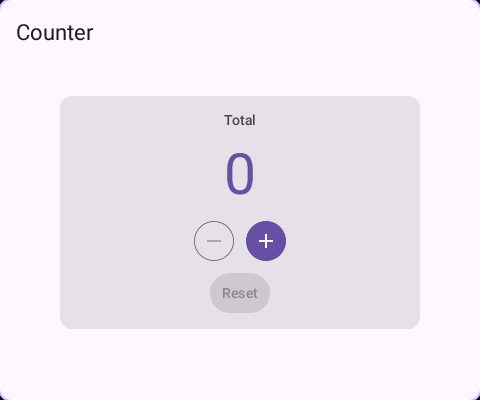
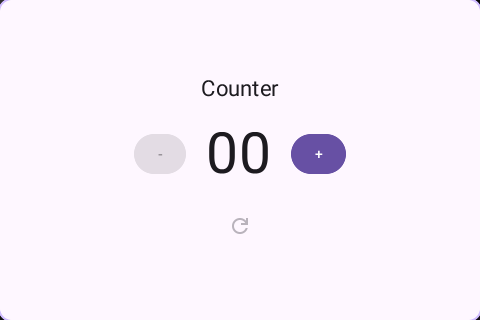
examples: tidy assets and refresh the hello and counter shots
Pictures and clips live under images/ and videos/, paths follow them, hello is the SVG greeting, and counter is the compact version. The README describes hello and shows fresh light/dark screenshots for both.

diff --git a/counter/cmd/main.go b/counter/cmd/main.go
@@ -5,69 +5,46 @@
 package main
 
 import (
-	"fmt"
-	"os"
-	"strconv"
-
 	"github.com/goi-gui/goi/ui"
 )
-
-// counter lives outside Bind on purpose: Bind runs again after every hot
-// reload, so state declared inside it would reset on each save.
-type counter struct {
-	n int
-}
 
 func main() {
 	app, err := ui.NewApp()
 	if err != nil {
-		fmt.Fprintln(os.Stderr, err)
-		os.Exit(1)
+		panic(err)
 	}
+
 	win, err := app.LoadWindow("ui/Main.goi")
 	if err != nil {
-		fmt.Fprintln(os.Stderr, err)
-		os.Exit(1)
+		panic(err)
 	}
 
-	c := &counter{}
+	// store count variable outside of the binding,
+	// if you don't want reset after hot reload
+	count := 0
+
 	err = win.Bind(func(w *ui.Window) error {
-		label := w.MustByID[*ui.Text]("label")
-		inc := w.MustByID[*ui.IconButton]("inc")
-		dec := w.MustByID[*ui.IconButton]("dec")
-		reset := w.MustByID[*ui.Button]("reset")
-
-		// render writes the count and keeps the minus disabled at the floor,
-		// so the control never offers an action the state refuses.
-		render := func() {
-			label.Text.Set(strconv.Itoa(c.n))
-			dec.Disabled.Set(c.n <= 0)
-			reset.Disabled.Set(c.n == 0)
-		}
-		render()
-
-		inc.OnClick(func(ui.ClickEvent) {
-			c.n++
-			render()
+		ui.SetData(w, "Count", count)
+		ui.SetHandler(w, "onInc", func() {
+			count++
+			ui.SetData(w, "Count", count)
 		})
-		dec.OnClick(func(ui.ClickEvent) {
-			if c.n > 0 {
-				c.n--
-			}
-			render()
+		ui.SetHandler(w, "onDec", func() {
+			count--
+			ui.SetData(w, "Count", count)
 		})
-		reset.OnClick(func(ui.ClickEvent) {
-			c.n = 0
-			render()
+		ui.SetHandler(w, "onReset", func() {
+			count = 0
+			ui.SetData(w, "Count", count)
 		})
 		return nil
 	})
 	if err != nil {
-		fmt.Fprintln(os.Stderr, err)
-		os.Exit(1)
+		panic(err)
 	}
-	if err := app.Run(); err != nil {
-		fmt.Fprintln(os.Stderr, err)
-		os.Exit(1)
+
+	err = app.Run()
+	if err != nil {
+		panic(err)
 	}
 }

diff --git a/README.md b/README.md
@@ -27,8 +27,8 @@ framework — `media` needs `ffmpeg` on `PATH` (or `GOI_FFMPEG`), while `map` an
 
 ### hello
 
-Nested boxes: radius, border, padding and alignment, with real text. It is the
-visual check for the renderer, and the smallest design in the repository.
+A centred SVG logo and greeting: the smallest complete design, and the check
+that an SVG picks up the scheme's background and keeps its rounded corners.
 
 | Light | Dark |
 | --- | --- |
